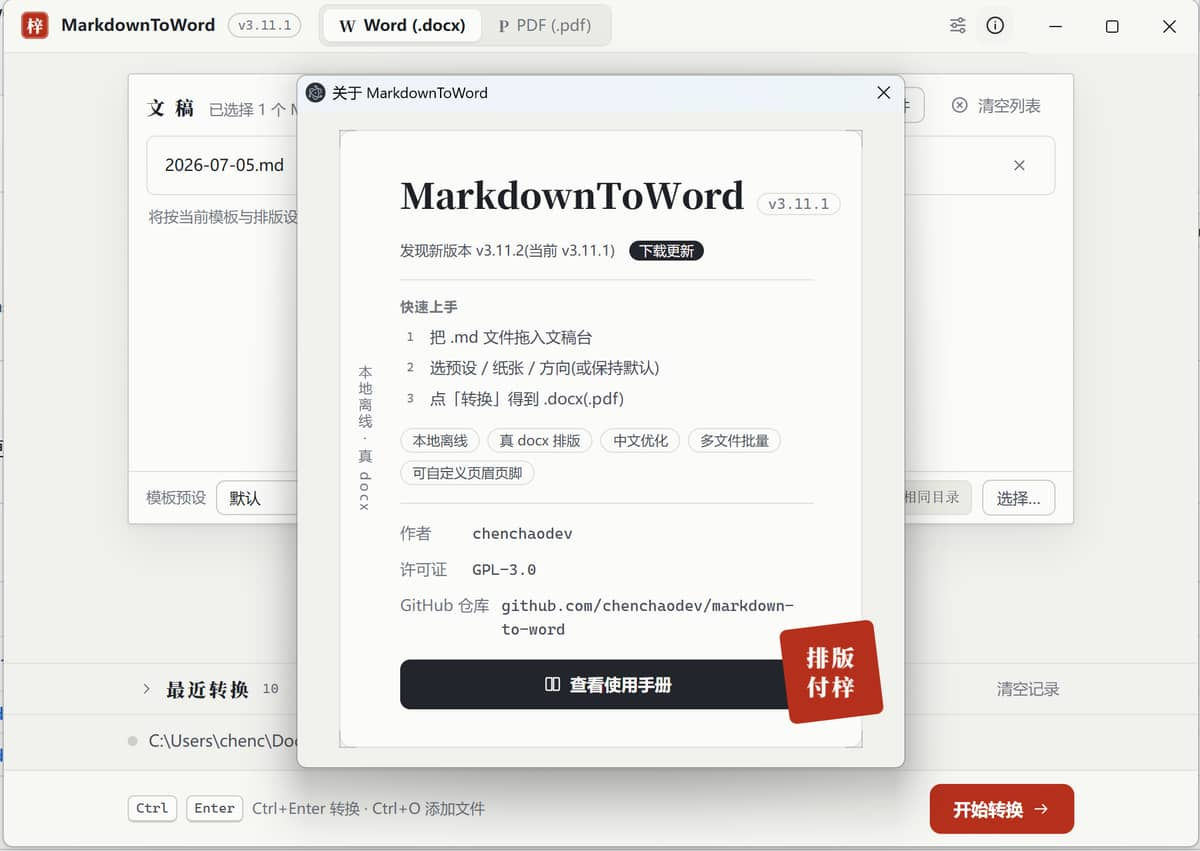
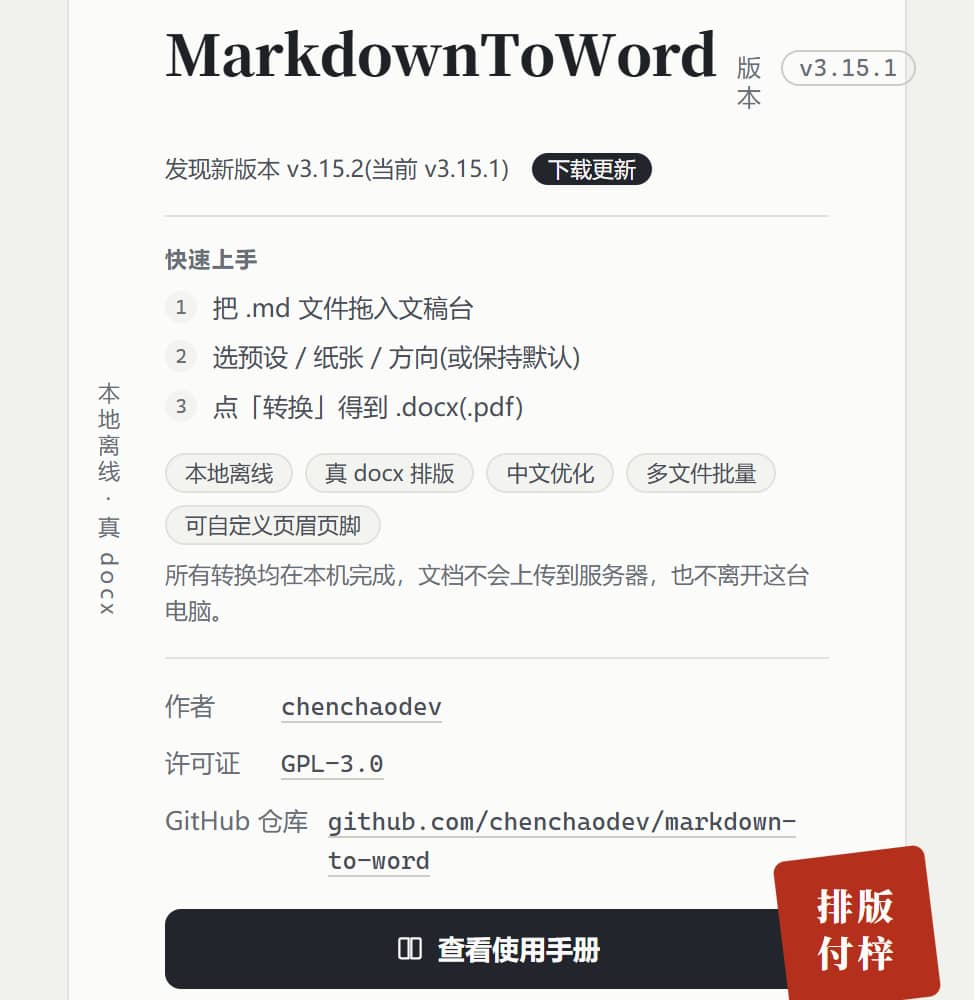
docs(截图): 按 3.15.1 界面重拍 5 张图 + 修 harness 三处失真桩
**为什么必须重拍**: 旧图展示的是应用**已经不用**的窗口样式 —— 主窗口 win32 走
`titleBarStyle:"hidden"` + `titleBarOverlay`(自绘标题栏), 而已发布的 5 张是原生标题栏。
且旧图上的版本号停在 v3.11.0 / v3.11.1 / v3.14.0。

**顺带修掉一个真实隐私泄露**: 旧图里带着本机真实路径
(`C:\Users\chenc\Documents\Obsidian\陈超笔记\05-日记….docx`、`C:\Users\chenc\…`),
而这是公开仓。现已全部换成 `C:\demo\` 夹具路径, 5 张图零真实路径。

**harness 三处桩失真**(截图工具的桩与真实行为不符, 导致图不能用):

1. `settingsGet` 返回 `{}` ⇒ 首屏弹红条「检测到不合法的页面设置结构设置」。那是**桩的产物
   不是产品 bug**; 改返回 `cloneDefaultSettings()` 而非 `DEFAULT_SETTINGS` 单例 ——
   后者会被渲染层就地改写, 污染后续场景。
2. 版本桩 `0.0.0-visual` ⇒ about 图版本芯片**溢出裁切**。改读 `package.json`。
3. about 桩的 `checkUpdate` 硬编码 `status:"latest"` ⇒ 图上没有更新提示, 与
   `docs/index.html:557` 的 alt 不符。改返回 `available` ⇒ 图与 alt 一致, 且展示更新
   提示本就是产品卖点。

**一处偏离, 有实测依据**: about 窗是 `sandbox:true` 且 `about.html` 带
`script-src 'self'` CSP, `require`/`import` 读 `package.json` **都被 CSP 拦掉**
(报 "Loading the script 'node:path' violates script-src")。故版本经
`additionalArguments` 传入 —— `package.json` 仍**只有一个读取点**
(`visual-check.mjs` 的 `APP_VERSION`), 没有第二个独立解析。

**顺带修一处我自己引入的排版回归**: `ui-about.jpg` 原生 974×1000 被拉到 1200 宽(1.23×
上采样), 且并排时比邻图高 57%。改为**按原生重编码**(不缩放, 更锐更小) + 该图宽度
48%→30%, 使两图显示高度配平(31.4% vs 30.8% 容器高)。

设置图改拍**排版组**(纸张/边距/字体/字号/行距), 比「预设」更能代表 Markdown→Word。
未新增依赖: `sharp` 本就是 devDependency, 仅作本地 1200px 缩放用。

Changed region(s): [[0.0, 0.0, 1.0, 1.0], [0.308, 0.2139, 0.6776, 0.2444]]

diff --git a/README_EN.md b/README_EN.md
@@ -117,7 +117,7 @@ A guided, step-by-step workflow that chains all features together — no need to
 
 <p align="center">
   <img src="docs/images/ui-main.jpg" alt="Main window (multiple files)" width="80%">
-  <br><em>Main window: pick files → pick format → convert</em>
+  <br><em>Main window: pick files → pick format → batch convert / merge convert</em>
 </p>
 
 <p align="center">
@@ -130,7 +130,7 @@ A guided, step-by-step workflow that chains all features together — no need to
 <p align="center">
   <img src="docs/images/ui-complete.jpg" alt="Conversion complete dialog" width="48%">
   &nbsp;
-  <img src="docs/images/ui-about.jpg" alt="About window" width="48%">
+  <img src="docs/images/ui-about.jpg" alt="About window" width="30%">
   <br><em>Left: conversion complete (open file / open folder / copy path)　Right: about window (version and update check)</em>
 </p>
 
